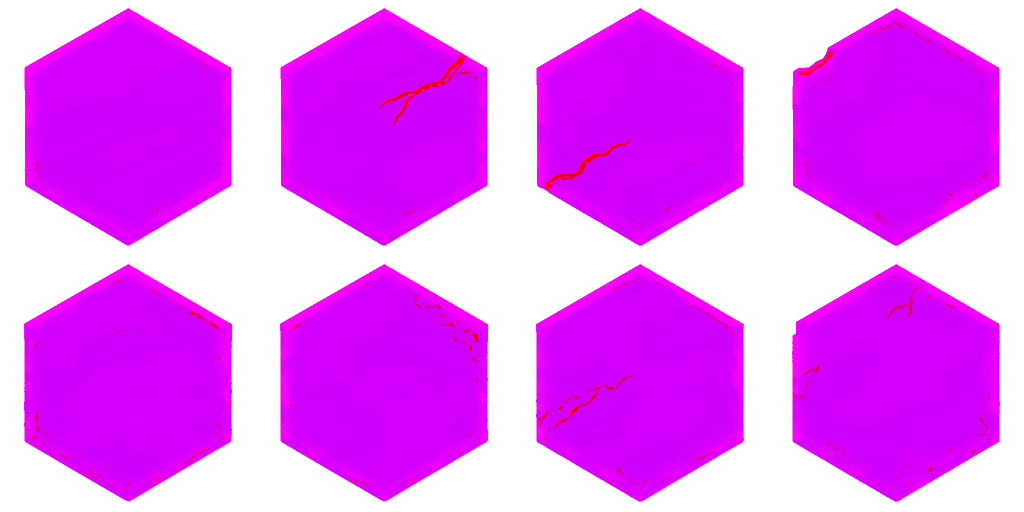
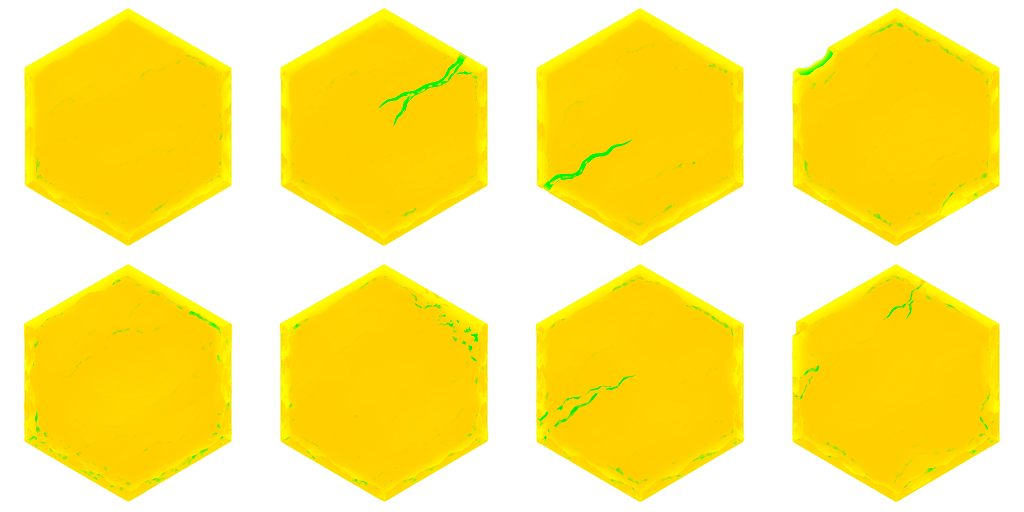
Arena hex floor: painted PBR tiles and the joint plane
Claude-Session: https://claude.ai/code/session_01RV2LkTXFCZhmAifUhFqJWb

diff --git a/game/arenahex.js b/game/arenahex.js
@@ -1,0 +1,113 @@
+/* Hexmancers - the battle board's painted hex floor (docs/superpowers/specs/2026-11-15-arena-hex-floor-design.md; the
+   plan docs/superpowers/plans/2026-11-15-arena-hex-floor.md). Every hex is a carved stone tile painted to the hex, set
+   flush in a dark joint: one of the area's eight painted tiles (tools/build-arena-hex.py: art/environment/arena/hex/),
+   turned by sixths and now and then mirrored, its tone, edge wear, cracks and moss varied by its own key, with a slow
+   tone drift across the whole board. The material is PBR (MeshStandardMaterial: the painted roughness and metalness, a
+   normal and an ambient-occlusion map from the painted height) and tuned live from the debug menu's Arena floor rows.
+   Until an area's art has come in (or if it failed) the board stands in with the same tiles built from their shape:
+   the area's code-painted slab as faint grain, a bevel from the distance to the hex's edge. The square board of the
+   Movement lab keeps the old board (arena.js). */
+const HEX_R=.92;   // a tile's circumradius (the grid's is 1): the joints between are about .14 wide
+const HEX_MATS=new Set();   // the live hex materials, for the debug menu's rows
+// a tile's stable dice: its painted variant, turn (sixths), mirror, tone and the strengths of its masks
+function hexKey(t){ return Math.imul(t.q*73856093^t.r*19349663,2654435761)>>>0; }
+function hexPicks(){ const P=new Map(), at=new Map(TILES.map(t=>[t.q+','+t.r,t])), nb=[[1,0],[-1,0],[0,1],[0,-1],[1,-1],[-1,1]];
+  for(const t of TILES){ let h=hexKey(t), v=h%8, turn=(h>>>3)%6;
+    for(let k=0;k<12;k++){ const clash=nb.some(([dq,dr])=>{ const o=at.get((t.q+dq)+','+(t.r+dr)), p=o&&P.get(o); return p&&p.v===v&&p.turn===turn; }); if(!clash) break;
+      h=Math.imul(h^0x9e3779b9,2246822507)>>>0; v=h%8; turn=(h>>>3)%6; }
+    const f=s=>((h>>>s)&255)/255;
+    P.set(t,{v, turn, mir:((h>>>6)&3)===0?1:0, tone:(f(8)-.5)*.14, wear:.6+f(16)*.6, crack:.8+f(24)*.4, moss:f(11)}); }
+  return P; }
+// a point (ox, oz) off a tile's centre, in world units, to its place in the painting: the art's hexes are pointy-top
+// (a corner straight up the image), the board's have a corner along world x; turned by sixths, mirrored across
+function hexUV(ox,oz,p,cols,rows,cellPx,hexPx){ const r=Math.hypot(ox,oz)/HEX_R*hexPx, a=Math.atan2(oz,ox)-Math.PI/2+p.turn*Math.PI/3;
+  let x=Math.cos(a)*r, y=Math.sin(a)*r; if(p.mir) x=-x; const cx=(p.v%cols+.5)*cellPx+x, cy=(((p.v/cols)|0)%rows+.5)*cellPx+y;
+  return [cx/(cols*cellPx), 1-cy/(rows*cellPx)]; }
+// the tiles: one merged mesh; each tile a hex top and a bevel skirt down into its joint; t._v0..t._v1 its vertices (the
+// colour arena.js arenaTiles writes from the tile's state)
+function hexGeo(P,cols,rows,cellPx,hexPx){ const pos=[], nor=[], uv=[], col=[], va=[];
+  const put=(x,y,z,nx,ny,nz,u,v,p)=>{ pos.push(x,y,z); nor.push(nx,ny,nz); uv.push(u,v); col.push(1,1,1); va.push(p.tone,p.wear,p.crack,p.moss); };
+  for(const t of TILES){ const p=P.get(t), cx=t.wz, cz=-t.wx; t._v0=pos.length/3;
+    const C=[...Array(6)].map((_,i)=>{ const a=i*Math.PI/3; return [Math.cos(a),Math.sin(a)]; });
+    const U=(ox,oz,k)=>hexUV(ox*k,oz*k,p,cols,rows,cellPx,hexPx);
+    for(let i=0;i<6;i++){ const a=C[i], b=C[(i+1)%6];
+      put(cx,0,cz,0,1,0,...U(0,0,1),p); put(cx+b[0]*HEX_R,0,cz+b[1]*HEX_R,0,1,0,...U(b[0]*HEX_R,b[1]*HEX_R,1),p); put(cx+a[0]*HEX_R,0,cz+a[1]*HEX_R,0,1,0,...U(a[0]*HEX_R,a[1]*HEX_R,1),p); }
+    // the skirt: the rim's own colour (just inside the painted edge), sloping out and down into the joint
+    for(let i=0;i<6;i++){ const a=C[i], b=C[(i+1)%6], mx=(a[0]+b[0])/2, mz=(a[1]+b[1])/2, l=Math.hypot(mx,mz), nx=mx/l*.7, nz=mz/l*.7, R2=HEX_R+.035, y2=-.07;
+      const ua=U(a[0]*HEX_R,a[1]*HEX_R,.97), ub=U(b[0]*HEX_R,b[1]*HEX_R,.97);
+      put(cx+a[0]*HEX_R,0,cz+a[1]*HEX_R,nx,.7,nz,...ua,p); put(cx+b[0]*HEX_R,0,cz+b[1]*HEX_R,nx,.7,nz,...ub,p); put(cx+b[0]*R2,y2,cz+b[1]*R2,nx,.7,nz,...ub,p);
+      put(cx+a[0]*HEX_R,0,cz+a[1]*HEX_R,nx,.7,nz,...ua,p); put(cx+b[0]*R2,y2,cz+b[1]*R2,nx,.7,nz,...ub,p); put(cx+a[0]*R2,y2,cz+a[1]*R2,nx,.7,nz,...ua,p); }
+    t._v1=pos.length/3; }
+  const g=new THREE.BufferGeometry(); g.setAttribute('position',new THREE.Float32BufferAttribute(pos,3)); g.setAttribute('normal',new THREE.Float32BufferAttribute(nor,3));
+  g.setAttribute('uv',new THREE.Float32BufferAttribute(uv,2)); g.setAttribute('uv2',new THREE.Float32BufferAttribute(uv,2));
+  g.setAttribute('color',new THREE.Float32BufferAttribute(col,3)); g.setAttribute('aHexVar',new THREE.Float32BufferAttribute(va,4)); return g; }
+// a texture from an Image: colour, or data (no colour conversion, no premultiplying: the masks' alpha is data)
+function hexTex(img,rep){ const t=arTex(new THREE.Texture(img)); t.wrapS=t.wrapT=rep?THREE.RepeatWrapping:THREE.ClampToEdgeWrapping; t.magFilter=THREE.LinearFilter; t.minFilter=THREE.LinearMipmapLinearFilter;
+  t.anisotropy=4; t.premultiplyAlpha=false; t.needsUpdate=true; return t; }
+// the mean colour of an image (the joints' moss colour the tiles' moss mask mixes toward)
+function hexMean(img){ const c=document.createElement('canvas'); c.width=c.height=8; const x=c.getContext('2d'); x.drawImage(img,0,0,8,8); const d=x.getImageData(0,0,8,8).data; let r=0,g=0,b=0;
+  for(let i=0;i<64;i++){ r+=d[i*4]; g+=d[i*4+1]; b+=d[i*4+2]; } return new THREE.Color(r/64/255,g/64/255,b/64/255); }
+// the tiles' material: PBR, its painted maps, the per-tile variation and the board-wide drift in its shader
+function hexMat(H){ const T=hexTex(H.tiles), M=hexTex(H.m), m=new THREE.MeshStandardMaterial({map:T, normalMap:hexTex(H.n), aoMap:M, roughnessMap:M, metalnessMap:M, roughness:1, metalness:1, alphaTest:.5, vertexColors:true});
+  m.normalScale.set(XLIT.hexNrm,XLIT.hexNrm); m.aoMapIntensity=XLIT.hexAO;
+  const U={ uHexV:{value:hexTex(H.v)}, uHexNoise:{value:hexTex(H.noise,true)}, uHexK:{value:new THREE.Vector4(XLIT.hexRough,XLIT.hexRoughOff,XLIT.hexMetal,XLIT.hexWear)}, uHexMoss:{value:hexMean(H.joint).multiplyScalar(1.6)} };
+  m.userData.hexU=U; m.userData.xmold=1;
+  m.onBeforeCompile=sh=>{ Object.assign(sh.uniforms,U);
+    sh.vertexShader='attribute vec4 aHexVar; varying vec4 vHexVar; varying vec2 vHexW;\n'+sh.vertexShader.replace('#include <begin_vertex>','#include <begin_vertex>\n vHexVar=aHexVar; vHexW=(modelMatrix*vec4(position,1.)).xz;');
+    sh.fragmentShader='uniform sampler2D uHexV; uniform sampler2D uHexNoise; uniform vec4 uHexK; uniform vec3 uHexMoss; varying vec4 vHexVar; varying vec2 vHexW;\n'+sh.fragmentShader
+      .replace('#include <map_fragment>',`#include <map_fragment>
+  vec4 hv=texture2D(uHexV,vUv); float hn=texture2D(uHexNoise,vHexW/9.).r-.5;
+  diffuseColor.rgb*=(1.+vHexVar.x)*(1.+(hv.b-.5)*.1)*(1.+hn*.08);                       // the tile's tone, its colour patches, the board's drift
+  diffuseColor.rgb*=(1.+.25*vHexVar.y*uHexK.w*hv.r)*(1.-.3*vHexVar.z*hv.g);               // worn edges lighter, cracks and chips darker
+  diffuseColor.rgb=mix(diffuseColor.rgb,uHexMoss,.4*vHexVar.w*hv.a);`)                     // moss and staining
+      .replace('#include <roughnessmap_fragment>','#include <roughnessmap_fragment>\n  roughnessFactor=clamp(roughnessFactor*uHexK.x+uHexK.y+.08*hv.g,.04,1.);')
+      .replace('#include <metalnessmap_fragment>','#include <metalnessmap_fragment>\n  metalnessFactor*=uHexK.z;'); };
+  m.customProgramCacheKey=()=>'hexfloor';
+  HEX_MATS.add(m); return m; }
+// the stand-in tile: the area's slab, faint, in a hex with a bevel from its distance to the edge (xLitTag makes the relief)
+function hexStandIn(Ar){ const N=256, c=document.createElement('canvas'); c.width=c.height=N; const x=c.getContext('2d');
+  const src=xSlabFloor(Ar.stone||AREAS[0].stone,(Ar.index||0)*31+5,0); x.drawImage(src,0,0,N,N);
+  const im=x.getImageData(0,0,N,N), d=im.data; let r=0,g=0,b=0; for(let i=0;i<N*N;i++){ r+=d[i*4]; g+=d[i*4+1]; b+=d[i*4+2]; } r/=N*N; g/=N*N; b/=N*N;
+  const H=new Float32Array(N*N), hp=ARENA_HEX.hexR, ri=hp*Math.sqrt(3)/2;
+  for(let j=0;j<N;j++) for(let i=0;i<N;i++){ const o=j*N+i, dx=i+.5-N/2, dy=j+.5-N/2; let dd=0; for(let k=0;k<6;k++){ const a=k*Math.PI/3; dd=Math.max(dd,dx*Math.cos(a)+dy*Math.sin(a)); }
+    const e=Math.max(0,1-dd/ri), bev=Math.min(1,e/.12);
+    d[o*4]=r+(d[o*4]-r)*.3; d[o*4+1]=g+(d[o*4+1]-g)*.3; d[o*4+2]=b+(d[o*4+2]-b)*.3;
+    const lit=1+(1-bev)*.12; d[o*4]*=lit; d[o*4+1]*=lit; d[o*4+2]*=lit;
+    H[o]=bev*4-Math.max(0,e-.5)*.6; }
+  x.putImageData(im,0,0); c.h=H; c.hk=.6; c.pbr='slab'; return c; }
+// the overlay layers every board has (arena.js): the glow added on (state highlights) and the outline guide
+function hexOverlays(rad){ const gpos=[], gcol=[]; TILES.forEach(t=>{ t._g0=gpos.length/3; const cx=t.wz, cz=-t.wx;
+    const C=tileCornerOffs(rad).map(([dx,dz])=>[cx+dz,cz-dx]); for(let i=0;i<C.length;i++){ const a=C[i], b=C[(i+1)%C.length]; gpos.push(cx,.012,cz, b[0],.012,b[1], a[0],.012,a[1]); gcol.push(0,0,0,0,0,0,0,0,0); } });
+  const gg=new THREE.BufferGeometry(); gg.setAttribute('position',new THREE.Float32BufferAttribute(gpos,3)); gg.setAttribute('color',new THREE.Float32BufferAttribute(gcol,3));
+  const glow=new THREE.Mesh(gg,arMat(new THREE.MeshBasicMaterial({vertexColors:true,transparent:true,blending:THREE.AdditiveBlending,depthWrite:false,fog:false}))); glow.renderOrder=1;
+  const lp=[], lc=[]; const side=t=>t.side==='p'?[.5,.83,1]:t.side==='e'?[.59,.65,.7]:[.22,1,.54];
+  for(const t of TILES){ const cx=t.wz, cz=-t.wx, c=side(t), f=t.side==='p'?.5:t.side==='e'?.32:.5, fi=t.side==='p'?.14:.08;
+    const C=tileCornerOffs(rad).map(([dx,dz])=>[cx+dz,cz-dx]); for(let i=0;i<C.length;i++){ const [ax,az]=C[i], [bx,bz]=C[(i+1)%C.length];
+      lp.push(ax,.02,az,bx,.02,bz); lc.push(...c.map(v=>v*f),...c.map(v=>v*f));
+      if(t.side!=='n'&&!SQUARE){ lp.push(cx,.02,cz,ax,.02,az); lc.push(...c.map(v=>v*fi),...c.map(v=>v*fi)); } } }
+  const lg=new THREE.BufferGeometry(); lg.setAttribute('position',new THREE.Float32BufferAttribute(lp,3)); lg.setAttribute('color',new THREE.Float32BufferAttribute(lc,3));
+  const lm=arMat(new THREE.LineBasicMaterial({vertexColors:true,transparent:true,blending:THREE.AdditiveBlending,depthWrite:false,fog:false})), lines=new THREE.LineSegments(lg,lm); lines.renderOrder=2;
+  lm.userData.hexLines=1; return {glow,lines}; }
+// the joints: one slab under the board, its top the area's joint fill (tiled in world space), its sides down to the floor
+function hexJoint(Ar,H){ let x0=1e9,x1=-1e9,z0=1e9,z1=-1e9; for(const t of TILES){ x0=Math.min(x0,t.wz); x1=Math.max(x1,t.wz); z0=Math.min(z0,-t.wx); z1=Math.max(z1,-t.wx); }
+  const W=x1-x0+2.1, D=z1-z0+2.1, Hh=SLAB-.05, g=new THREE.BoxGeometry(W,Hh,D);
+  const p=g.attributes.position, uv=g.attributes.uv; for(let i=0;i<p.count;i++){ const X=p.getX(i)+(x0+x1)/2, Y=p.getY(i), Z=p.getZ(i)+(z0+z1)/2; const ny=g.attributes.normal.getY(i);
+    if(Math.abs(ny)>.5) uv.setXY(i,X/3,Z/3); else uv.setXY(i,(X+Z)/3,Y/3); }
+  g.setAttribute('uv2',uv.clone());
+  let m; if(H){ const J=hexTex(H.joint,true), JM=hexTex(H.jointM,true); m=new THREE.MeshStandardMaterial({map:J, normalMap:hexTex(H.jointN,true), aoMap:JM, roughnessMap:JM, metalnessMap:JM, roughness:1, metalness:1}); }
+  else { const c=xRockFloor(Ar.stone||AREAS[0].stone,(Ar.index||0)*17+3), t=arTex(xTex(c,true)); m=xLitTag(xPhong({map:t,color:0x8c8c8c}),1,c); }
+  m.userData.hexJoint=1; m.userData.xmold=1; const mesh=new THREE.Mesh(g,arMat(m)); mesh.position.set((x0+x1)/2,-.05-Hh/2,(z0+z1)/2); mesh.userData.caveFloor=1; return mesh; }
+/* The board (arena.js arenaBoard, for a hex board): {mesh, joint, glow, lines, art} — mesh keeps arenaBoard's contract
+   (t._v0..t._v1 and a colour attribute per tile). */
+function arHexFloor(A,Ar,R){ HEX_MATS.clear(); const H=typeof envArtHex==='function'?envArtHex(Ar.id):null, P=hexPicks();
+  let mesh;
+  if(H){ const g=hexGeo(P,ARENA_HEX.cols,ARENA_HEX.rows,ARENA_HEX.cell,ARENA_HEX.hexR); mesh=new THREE.Mesh(g,arMat(xLitTag(hexMat(H),1))); }
+  else { const cv=hexStandIn(Ar), tex=arTex(xTex(cv,false)); tex.magFilter=THREE.LinearFilter; tex.minFilter=THREE.LinearMipmapLinearFilter;
+    const P1=new Map([...P].map(([t,p])=>[t,Object.assign({},p,{v:0})])), g=hexGeo(P1,1,1,256,ARENA_HEX.hexR); mesh=new THREE.Mesh(g,arMat(xLitTag(xPhong({map:tex,vertexColors:true,pbr:'slab'}),1,cv))); }
+  mesh.renderOrder=0; const joint=hexJoint(Ar,H), {glow,lines}=hexOverlays(HEX_R);
+  lines.material.opacity=XLIT.hexLines;
+  return {mesh, joint, glow, lines, art:!!H}; }
+// the debug menu's Arena floor rows, live
+function hexTune(){ for(const m of HEX_MATS){ const U=m.userData.hexU; if(!U) continue; U.uHexK.value.set(XLIT.hexRough,XLIT.hexRoughOff,XLIT.hexMetal,XLIT.hexWear); m.normalScale.set(XLIT.hexNrm,XLIT.hexNrm); m.aoMapIntensity=XLIT.hexAO; }
+  if(typeof AR!=='undefined'&&AR&&AR.board){ if(AR.board.lines) AR.board.lines.material.opacity=XLIT.hexLines; if(AR.board.sideGlow) AR.board.sideGlow.material.opacity=XLIT.hexGlow;
+    if(AR.board.growth) for(const k in AR.board.growth) if(AR.board.growth[k]) AR.board.growth[k].visible=XLIT.hexGrowth; } }

diff --git a/game/look.js b/game/look.js
@@ -20,7 +20,7 @@ const XB={ ball:xSetF('hexmancers-xball',XB_DEF.ball), strip:xSetF('hexmancers-x
      darken toward their feet.
    - Screen-space AO: a pass over the depth of the whole frame shades every crease (xSSAO). */
 const xSetB=(k,d)=>{ try{ const v=localStorage.getItem(k); return v==null?d:v==='1'; }catch(e){ return d; } };
-const XLIT_DEF={ texSharp:1, mold:true, moldAmt:1, moldSpread:1, moldScale:1, amb:4, sun:3.5, lamp:2.05, lampRad:0.4, lampY:3.7, torch:0.55, torchRad:0.75, flick:2.15, myGlow:1.2, fogNear:51, fogFar:119, texel:true, steps:8, nmap:true, nstrF:1.05, nstrW:0.23, ao:true, aoStr:0.9, aoRad:0.6, ssao:true, ssaoStr:1.25, ssaoRad:0.55, fps:false, autoQ:true, camPitch:58, camFov:71, arWalls:true, camZoom:1, camX:0, camY:-4.5, camZ:2.9, camRX:24, camRY:0, camRZ:0, dof:true, dofFocus:11, dofRange:13.4, dofFade:16.3, dofNear:0.35, dofFar:0.5, dofBlur:12.5, pbr:true, pbrEnv:1.25, pbrR_gold:0.68, pbrM_gold:1, pbrR_steel:1, pbrM_steel:1, pbrR_gloss:0.14, pbrM_gloss:0, pbrR_ice:0.97, pbrM_ice:0, pbrR_slab:0.7, pbrM_slab:0, pbrRMap:1,
+const XLIT_DEF={ hexRough:1, hexRoughOff:0, hexMetal:1, hexNrm:1, hexAO:1, hexWear:1, hexGlow:1, hexLines:.5, hexGrowth:true, texSharp:1, mold:true, moldAmt:1, moldSpread:1, moldScale:1, amb:4, sun:3.5, lamp:2.05, lampRad:0.4, lampY:3.7, torch:0.55, torchRad:0.75, flick:2.15, myGlow:1.2, fogNear:51, fogFar:119, texel:true, steps:8, nmap:true, nstrF:1.05, nstrW:0.23, ao:true, aoStr:0.9, aoRad:0.6, ssao:true, ssaoStr:1.25, ssaoRad:0.55, fps:false, autoQ:true, camPitch:58, camFov:71, arWalls:true, camZoom:1, camX:0, camY:-4.5, camZ:2.9, camRX:24, camRY:0, camRZ:0, dof:true, dofFocus:11, dofRange:13.4, dofFade:16.3, dofNear:0.35, dofFar:0.5, dofBlur:12.5, pbr:true, pbrEnv:1.25, pbrR_gold:0.68, pbrM_gold:1, pbrR_steel:1, pbrM_steel:1, pbrR_gloss:0.14, pbrM_gloss:0, pbrR_ice:0.97, pbrM_ice:0, pbrR_slab:0.7, pbrM_slab:0, pbrRMap:1,
   dPitch:48, dDist:9.4, dView:12, dViewP:7, dStepOn:true, dStepLow:.17, dShOn:false, dShW:1.25, dShUp:1.3, dShDown:2.6, dShBack:1.1, dShEdge:.18, dShInner:true, dShDoor:true, dShDoorH:3.6, dShade:true, dShadeA:.55, dShadeTint:.35, dFov:46, dAhead:1, dAim:0, dTurn:0, dMoveX:0, dMoveY:0, dMoveZ:0, dRotX:0, dRotY:0, dRotZ:0, dFog:true, dFogStart:6, dFogLen:14, dMemLit:.7, dMemDark:.35, dLightMem:1, dCut:false, dCutH:.3, dCutFollow:true, dCutReach:9, dCutStart:.5, dDoorMin:.75, dDoorGlow:.3, dofShow:false, vig:0.98, vigR:0.79, vigSoft:0.38, mvSpeed:1.2, mvSnap:1, mvSnapR:.7, mvSnapSpd:4.02, mvRest:0.6, mvDrag:2.5, mvAccel:0, mvShow:false, mvShowGame:false, mvStick:true, mvStickShow:true, mvStickR:48, mvDead:.15, mvStickMin:.15, mvStickFull:.54, mvCurve:.56, mvTapMs:278, mvTapPx:17, mvStickSpeed:6, mvEven:1, mvSnapTime:.12, mvSnapAhead:true, mvStride:.5, mvFaceWalk:true, mvMomentum:true, mvMAccel:.15, mvMBrake:.42, mvMSkid:.25, mvGrip:.93, mvFlick:true, mvFlickV0:450, mvFlickV1:1400, mvFlickMin:1, mvFlickMax:3, mvFlickTime:.5, mvFlickWin:90, mpSpell:10, mpDefend:50, mpBackdate:250, mpSend:16, mpSmooth:33 };   // mp...: a duel's timings (netduel.js NET_DEFAULTS); d...: the dungeon camera, haze, what you remember and walls; mv...: how you walk in battle (battle.js freeTick)
 // the debug menu's pause: the game holds still (no moves, no clocks) but keeps being drawn; never saved
 const DBG={pause:false};
@@ -455,7 +455,7 @@ function xBlockWall(S,seed,rubble){ const N=64, R=caveRng(seed), f=xFbm(N,R,4);
   const c=xPaint(N,(i,j)=>{ const b=out[j*N+i]; if(Hm[j*N+i]>-1.5) Hm[j*N+i]+=f(i,j)*1.4; let t=b<0?.05:b+(f(i,j)-.5)*.25; if(j<2) t+=.25; return xTone(S,Math.max(0,Math.min(1,t))); });
   c.h=Hm; c.hk=.6; return c; }
 const XDBG=[   // [element id, object, key, saved as, decimals (null: a checkbox), what a change does]
-  ['dbgTexel',()=>XLIT,'texel','hexmancers-xl-texel',null,'lit'], ['dbgTexSharp',()=>XLIT,'texSharp','hexmancers-xl-texSharp',2,'sharp'], ['dbgMold',()=>XLIT,'mold','hexmancers-xl-mold',null,'pbr'], ['dbgMoldAmt',()=>XLIT,'moldAmt','hexmancers-xl-moldAmt',2,'mold'], ['dbgMoldSpread',()=>XLIT,'moldSpread','hexmancers-xl-moldSpread',2,'mold'], ['dbgMoldScale',()=>XLIT,'moldScale','hexmancers-xl-moldScale',2,'mold'], ['dbgSteps',()=>XLIT,'steps','hexmancers-xl-steps',0,'lit'],
+  ['dbgTexel',()=>XLIT,'texel','hexmancers-xl-texel',null,'lit'], ['dbgTexSharp',()=>XLIT,'texSharp','hexmancers-xl-texSharp',2,'sharp'], ['dbgMold',()=>XLIT,'mold','hexmancers-xl-mold',null,'pbr'], ...[['Rough','hexRough'],['RoughOff','hexRoughOff'],['Metal','hexMetal'],['Nrm','hexNrm'],['AO','hexAO'],['Wear','hexWear'],['Glow','hexGlow'],['Lines','hexLines']].map(([n,k])=>['dbgHex'+n,()=>XLIT,k,'hexmancers-xl-'+k,2,'hex']), ['dbgHexGrowth',()=>XLIT,'hexGrowth','hexmancers-xl-hexGrowth',null,'hex'], ['dbgMoldAmt',()=>XLIT,'moldAmt','hexmancers-xl-moldAmt',2,'mold'], ['dbgMoldSpread',()=>XLIT,'moldSpread','hexmancers-xl-moldSpread',2,'mold'], ['dbgMoldScale',()=>XLIT,'moldScale','hexmancers-xl-moldScale',2,'mold'], ['dbgSteps',()=>XLIT,'steps','hexmancers-xl-steps',0,'lit'],
   ['dbgNmap',()=>XLIT,'nmap','hexmancers-xl-nmap',null,'lit'], ['dbgNStrF',()=>XLIT,'nstrF','hexmancers-xl-nstrF',2,'lit'], ['dbgNStrW',()=>XLIT,'nstrW','hexmancers-xl-nstrW',2,'lit'],
   ['dbgAO',()=>XLIT,'ao','hexmancers-xl-ao',null,'lit'], ['dbgAOStr',()=>XLIT,'aoStr','hexmancers-xl-aoStr',2,'lit'], ['dbgAORad',()=>XLIT,'aoRad','hexmancers-xl-aoRad',2,'bake'],
   ['dbgSSAO',()=>XLIT,'ssao','hexmancers-xl-ssao',null,''], ['dbgSSAOStr',()=>XLIT,'ssaoStr','hexmancers-xl-ssaoStr',2,''], ['dbgSSAORad',()=>XLIT,'ssaoRad','hexmancers-xl-ssaoRad',2,''],
@@ -472,6 +472,7 @@ function xDbgApply(what){ if(typeof mlabCurve==='function') mlabCurve();   // (t
   else if(what==='pbr') lookRebuild();
   else if(what==='sharp') XLITU.uXSharp.value=XLIT.texSharp;
   else if(what==='mold'){ const K=XLITU.uXMoldK.value; K.x=XLIT.moldAmt; K.y=XLIT.moldSpread; K.z=XLIT.moldScale; }   // (the mold layer's amount, damp spread and scale, live: mold.js)   // (the painted textures' filtering: look.js xAtlasShader, live)
+  else if(what==='hex'){ if(typeof hexTune==='function') hexTune(); }   // (the arena's hex floor, live: arenahex.js)
   else if(what==='pbrEnv') xPBRTune();
   else if(what==='cam'){ if(typeof resizeView==='function'&&typeof B!=='undefined'&&B) resizeView(); }
   else if(what==='xpaint'||what==='xwalls'||what==='xshade'){ if(typeof xDbgDungeon==='function') xDbgDungeon(what); }
@@ -590,7 +591,7 @@ function xDbgCopy(taId,btnId){ taId=typeof taId==='string'?taId:'dbgCopyText'; b
   if(navigator.clipboard&&navigator.clipboard.writeText) navigator.clipboard.writeText(txt).then(()=>done(true),()=>done(ok)); else done(ok); }
 /* The debug menu's panes: its sections are sorted under a row of tabs at the top, so only one group of
    settings shows at a time. The pane last opened is remembered in this browser. */
-const XDBG_PANES=[['Camera',['Dungeon camera','Battle camera']],['Dungeon',['Dungeon view','Walls']],['Battle',['Battle movement']],['Lights',['Lighting','Lights']],['Surfaces',['Textures','Mold','PBR','Normal maps','Ambient occlusion']],['Post',['Post effects']],['General',['Card art','Multiplayer','Info']]];
+const XDBG_PANES=[['Camera',['Dungeon camera','Battle camera']],['Dungeon',['Dungeon view','Walls']],['Battle',['Battle movement']],['Lights',['Lighting','Lights']],['Surfaces',['Textures','Mold','Arena floor','PBR','Normal maps','Ambient occlusion']],['Post',['Post effects']],['General',['Card art','Multiplayer','Info']]];
 function xDbgPanes(){ const body=document.getElementById('dbgBody'); if(!body||body.querySelector('.dbgTabs')) return;
   const panes={}, tabs=document.createElement('div'); tabs.className='dbgTabs';
   for(const [name] of XDBG_PANES){ const d=document.createElement('div'); d.className='dbgPane'; d.dataset.pane=name; panes[name]=d; }

diff --git a/tools/playtest/art-check.js b/tools/playtest/art-check.js
@@ -240,11 +240,65 @@ const CHECKS = {
     }
     return 'no floor at depths 1-4 has a log with bracket mushrooms';
   },
+
+  // ---- the arena's hex floor (docs/superpowers/plans/2026-11-15-arena-hex-floor.md) ----
+  // Task 2: the painted tiles' PBR material, once the art is in
+  async hexFloorMaterial(pg) {
+    await pg.evaluate(BATTLE, [1, true]);
+    return pg.evaluate(() => {
+      const b = AR && AR.board; if (!b) return 'no board';
+      if (b.art !== true) return 'the board did not take the painted art';
+      const m = b.mesh.material;
+      if (!m.isMeshStandardMaterial) return 'not a MeshStandardMaterial';
+      if (!(m.map && m.normalMap && m.roughnessMap && m.metalnessMap && m.aoMap)) return 'a map is missing';
+      if (m.alphaTest !== .5) return 'alphaTest ' + m.alphaTest;
+      if (!b.joint) return 'no joint';
+      return null;
+    });
+  },
+  // Task 2: the art missing: the shape-built stand-in, no errors
+  async hexFallback(pg) {
+    await pg.evaluate(BATTLE, [1, false]);
+    return pg.evaluate(() => { const b = AR && AR.board; if (!b || !b.mesh) return 'no board'; if (b.art !== false) return 'art claimed while a file is missing'; return null; });
+  },
+  // Task 2: the Movement lab's square board stays the old board (54 vertices a tile, as arenaBoard always made)
+  async hexSquareBoard(pg) {
+    await pg.evaluate(() => { BOARD_TEST = { rows: 5, cols: 4, square: true }; });
+    await pg.evaluate(BATTLE, [1, false]);
+    return pg.evaluate(() => { const b = AR && AR.board; BOARD_TEST = null; if (!b) return 'no board';
+      if (b.art !== undefined) return 'the square board took the hex floor';
+      const n = b.mesh.geometry.attributes.position.count; if (n !== 40 * 54) return 'square board vertices ' + n + ', want ' + 40 * 54;
+      return null; });
+  },
+  // Task 2: a mirrored, turned tile's painting lands in its own cell, its centre on the cell's centre, its coverage solid
+  async hexMaskAligned(pg) {
+    await pg.evaluate(BATTLE, [1, true]);
+    return pg.evaluate(() => {
+      const P = hexPicks(), t = TILES.find(t => { const p = P.get(t); return p.mir && p.turn; }); if (!t) return 'no mirrored, turned tile';
+      const p = P.get(t), C = ARENA_HEX.cols, Rw = ARENA_HEX.rows, px = ARENA_HEX.cell, hr = ARENA_HEX.hexR;
+      const cx = (p.v % C + .5) / C, cy = 1 - (((p.v / C) | 0) + .5) / Rw, [u0, v0] = hexUV(0, 0, p, C, Rw, px, hr);
+      if (Math.abs(u0 - cx) > 1e-6 || Math.abs(v0 - cy) > 1e-6) return 'the centre is off its cell';
+      for (let i = 0; i < 6; i++) { const a = i * Math.PI / 3, [u, v] = hexUV(Math.cos(a) * HEX_R, Math.sin(a) * HEX_R, p, C, Rw, px, hr);
+        if (Math.abs(u - cx) > .5 / C || Math.abs(v - cy) > .5 / Rw) return 'corner ' + i + ' leaves its cell'; }
+      const img = envArtHex('hollows').tiles, c = document.createElement('canvas'); c.width = img.width; c.height = img.height; const x = c.getContext('2d'); x.drawImage(img, 0, 0);
+      if (x.getImageData(Math.floor(u0 * img.width), Math.floor((1 - v0) * img.height), 1, 1).data[3] < 250) return 'no coverage at the tile centre';
+      return null;
+    });
+  },
+};
+// in the page: start a battle at a depth (wait: for the area's hex floor art, up to 15 s)
+const BATTLE = async ([depth, wait]) => {
+  try { localStorage.setItem('hexmancers-cine', '0'); } catch (e) {}
+  envArtWantDepth(depth); const id = areaOf(depth).id, t0 = performance.now();
+  while (wait && performance.now() - t0 < 15000 && !envArtHex(id)) await new Promise(r => setTimeout(r, 100));
+  save = newSave(STARTERS[0]); save.char = lockChar(newChar('human', 0)); save.deepest = depth; show('scrBattle');
+  startBattle(activeDeck().list, depth, { onEnd: () => {} }, {}); await new Promise(r => setTimeout(r, 500)); return true;
 };
 // checks that need the page set up before it loads
 const ROUTES = { mushFallback: pg => pg.route('**/atlas/effects.webp', r => r.fulfill({ status: 404, body: '' })),
   foliageFallback: pg => pg.route('**/atlas/effects.webp', r => r.fulfill({ status: 404, body: '' })),
-  moldMissingSheet: pg => pg.route('**/atlas/mold.webp', r => r.fulfill({ status: 404, body: '' })) };
+  moldMissingSheet: pg => pg.route('**/atlas/mold.webp', r => r.fulfill({ status: 404, body: '' })),
+  hexFallback: pg => pg.route('**/arena/hex/hollows-tiles.webp', r => r.fulfill({ status: 404, body: '' })) };
 
 (async () => {
   const names = process.argv.slice(2).length ? process.argv.slice(2) : Object.keys(CHECKS);

diff --git a/game/envart.js b/game/envart.js
@@ -43,9 +43,24 @@ function arenaLoad(id,slot){ if(ARENA_DUNGEON[id]) return; const f=arenaFile(id,
   const im=new Image(); im.decoding='async'; im.onload=()=>{ AST.set(k,'ok'); AIMG.set(k,im); }; im.onerror=()=>AST.set(k,'fail'); im.src='art/environment/arena/'+k+'.webp'; }
 // an arena surface's painting (an Image), or null while it loads (the code-painted one stands in) or if there is none
 function envArtArena(id,slot){ if(ARENA_DUNGEON[id]) return arenaDungeon(id,slot); const f=arenaFile(id,slot); if(!f) return null; const k=id+'--'+f; if(!AST.has(k)) arenaLoad(id,slot); return AIMG.get(k)||null; }
+/* The battle board's painted hex floor (tools/build-arena-hex.py: art/environment/arena/hex/, ARENA_HEX in arenahexmap.js):
+   ten files an area and one shared noise, loaded with the area's other art. All of them or nothing: until every one has
+   come in, or for good once one fails, the board stands in with its shape-built floor (arenahex.js). */
+const HEX_PARTS={ tiles:'tiles', n:'tiles-n', m:'tiles-m', v:'tiles-v', joint:'joint', jointN:'joint-n', jointM:'joint-m', growth:'growth', growthE:'growth-e', growthM:'growth-m' };
+const HST=new Map(), HIMG=new Map(), HSET=new Map();
+function hexLoad(file){ if(HST.has(file)) return; HST.set(file,'loading'); const im=new Image(); im.decoding='async';
+  im.onload=()=>{ HST.set(file,'ok'); HIMG.set(file,im); }; im.onerror=()=>HST.set(file,'fail'); im.src='art/environment/arena/hex/'+file+'.webp'; }
+const hexFiles=id=>Object.values(HEX_PARTS).map(k=>id+'-'+k).concat('broad-noise');
+function hexWant(id){ if(typeof ARENA_HEX==='undefined'||!ARENA_HEX.areas.includes(id)) return; for(const f of hexFiles(id)) hexLoad(f); }
+// an area's hex floor art {tiles,n,m,v,joint,jointN,jointM,growth,growthE,growthM,noise} (Images, the same objects every
+// time), or null while any is loading or once one has failed
+function envArtHex(id){ if(HSET.has(id)) return HSET.get(id); if(typeof ARENA_HEX==='undefined'||!ARENA_HEX.areas.includes(id)) return null; hexWant(id);
+  const F=hexFiles(id); if(!F.every(f=>HST.get(f)==='ok')) return null;
+  const o={}; for(const k in HEX_PARTS) o[k]=HIMG.get(id+'-'+HEX_PARTS[k]); o.noise=HIMG.get('broad-noise'); HSET.set(id,o); return o; }
+const envArtHexFailed=id=>hexFiles(id).some(f=>HST.get(f)==='fail');
 // start loading what an area needs (its two sheets and the effects, and its arena)
 function envArtWant(id){ if(!id) return; load('area-'+id); load('area-'+id+'-n'); load('effects'); load('effects-e'); load('mold');
-  for(const slot of ['board','floor','wall','rock','chasm','mold','lava']) arenaLoad(id,slot); }
+  for(const slot of ['board','floor','wall','rock','chasm','mold','lava']) arenaLoad(id,slot); hexWant(id); }
 function envArtWantDepth(d){ if(typeof areaOf==='function') envArtWant(areaOf(Math.max(1,d|0)).id); }
 const ready=s=>STATE.get(s)==='ok';
 // a tile's rectangle in the sheet as the GPU sees it (three turns images over: v runs up from the bottom)
@@ -99,7 +114,7 @@ const envArtMissing=()=>missing;
 function envArtArrived(){ if(typeof EX==='undefined'||!EX||!EX.artMissing||!EX.active||EX.busy||!EX.area) return; const id=EX.area.id;
   if(['area-'+id,'area-'+id+'-n','effects','effects-e','mold'].some(s=>STATE.get(s)==='loading')) return;
   EX.artMissing=false; if(typeof xBuildScene==='function'){ xBuildScene(); if(typeof xUpdateVis==='function') xUpdateVis(); } }
-const api={envArtArena,envArtFxGlow,envArtMold,envArtWant,envArtWantDepth,envArtAreaFloors,envArtAreaWalls,envArtTheme,envArtOverlay,envArtFx,envArtTex,envArtBuildStart,envArtMissing,envArtArrived};
+const api={envArtHex,envArtHexFailed,envArtArena,envArtFxGlow,envArtMold,envArtWant,envArtWantDepth,envArtAreaFloors,envArtAreaWalls,envArtTheme,envArtOverlay,envArtFx,envArtTex,envArtBuildStart,envArtMissing,envArtArrived};
 Object.assign(root,api);
 envArtWant('hollows');   // where a new game starts
 })(typeof globalThis!=='undefined'?globalThis:this);

diff --git a/game/index.html b/game/index.html
@@ -640,6 +640,16 @@
       <div class="srow"><span>Mold amount<small>How much grows everywhere. 1 is normal, 0 none.</small></span><span class="srange"><input id="dbgMoldAmt" type="range" min="0" max="3" step="0.05"><b id="dbgMoldAmtV"></b></span></div>
       <div class="srow"><span>Damp spread<small>How far the thick growth reaches out from walls, corners and water. 1 is normal.</small></span><span class="srange"><input id="dbgMoldSpread" type="range" min="0.25" max="3" step="0.05"><b id="dbgMoldSpreadV"></b></span></div>
       <div class="srow"><span>Mold scale<small>How big the mold's colonies are. 1 is normal.</small></span><span class="srange"><input id="dbgMoldScale" type="range" min="0.25" max="4" step="0.05"><b id="dbgMoldScaleV"></b></span></div>
+      <h3>Arena floor</h3>
+      <div class="srow"><span>Floor roughness<small>How rough the painted tiles are: a scale on their painted roughness. 1 is as painted.</small></span><span class="srange"><input id="dbgHexRough" type="range" min="0" max="2" step="0.05"><b id="dbgHexRoughV"></b></span></div>
+      <div class="srow"><span>Roughness offset<small>Added to every tile's roughness: below 0 a polished sheen, above 0 dull stone.</small></span><span class="srange"><input id="dbgHexRoughOff" type="range" min="-0.5" max="0.5" step="0.01"><b id="dbgHexRoughOffV"></b></span></div>
+      <div class="srow"><span>Metalness<small>How metallic the painted metal flecks are (only the Deeps' silver and the Abyss's gold have any). 1 is as painted.</small></span><span class="srange"><input id="dbgHexMetal" type="range" min="0" max="1" step="0.05"><b id="dbgHexMetalV"></b></span></div>
+      <div class="srow"><span>Relief<small>The tiles' bevels, chips and cracks catching the light (their normal map). 1 is normal.</small></span><span class="srange"><input id="dbgHexNrm" type="range" min="0" max="3" step="0.05"><b id="dbgHexNrmV"></b></span></div>
+      <div class="srow"><span>Crevice shade<small>How dark the painted cracks and the rim's foot go (ambient occlusion). 1 is normal.</small></span><span class="srange"><input id="dbgHexAO" type="range" min="0" max="2" step="0.05"><b id="dbgHexAOV"></b></span></div>
+      <div class="srow"><span>Edge wear<small>How much brighter the worn rims are. 1 is normal.</small></span><span class="srange"><input id="dbgHexWear" type="range" min="0" max="3" step="0.05"><b id="dbgHexWearV"></b></span></div>
+      <div class="srow"><span>Your side glow<small>How strongly the joints on your half glow. 1 is normal.</small></span><span class="srange"><input id="dbgHexGlow" type="range" min="0" max="3" step="0.05"><b id="dbgHexGlowV"></b></span></div>
+      <div class="srow"><span>Grid lines<small>The faint outline drawn round every hex. 1 is as bright as before the painted floor.</small></span><span class="srange"><input id="dbgHexLines" type="range" min="0" max="1.5" step="0.05"><b id="dbgHexLinesV"></b></span></div>
+      <div class="srow"><span>Joint growth<small>Moss, lichen, crystals and mushrooms in the joints between the hexes.</small></span><label class="scheck"><input id="dbgHexGrowth" type="checkbox"></label></div>
       <h3>PBR</h3>
       <div class="srow"><span>PBR materials<small>On: gold, steel, crystals, ice and cut-stone floors become physically based (roughness and metalness, the area's light reflected in them). Off: as before. Rebuilds the scene; costs more to draw on a phone.</small></span><label class="scheck"><input id="dbgPbr" type="checkbox"></label></div>
       <div class="srow"><span>Reflections<small>How strongly PBR surfaces reflect the area's light. 1 is normal.</small></span><span class="srange"><input id="dbgPbrEnv" type="range" min="0" max="6" step="0.05"><b id="dbgPbrEnvV"></b></span></div>

diff --git a/game/arena.js b/game/arena.js
@@ -91,6 +91,7 @@ const AR_RELIEF=14;   // the painted stone's relief: its brightness, 0 to 1, tim
 // the hex tiles: one merged mesh, each tile a hex prism with its own window of the area's floor
 // stone on top (as in the old board) and a colour per vertex set every frame from the tile's state
 function arenaBoard(A,Ar,R){
+  if(!SQUARE&&typeof arHexFloor==='function'){ const b=arHexFloor(A,Ar,R); A.board=b; return [b.mesh,b.joint,b.glow,b.lines]; }   // the painted hex floor (arenahex.js); the square board stays as it was
   const tex=arTex(xTex(arArt(Ar,'board',()=>xSlabFloor(Ar.stone||AREAS[0].stone,(Ar.index||0)*31+5,0)),true)), cvs=tex.image;
   const n=TILES.length, VT=6*3+6*6, pos=new Float32Array(n*VT*3), nor=new Float32Array(n*VT*3), uv=new Float32Array(n*VT*2), col=new Float32Array(n*VT*3).fill(1);
   const rad=.96, lo=-SLAB; let k=0;

diff --git a/tools/build-arena-hex.py b/tools/build-arena-hex.py
@@ -7,14 +7,16 @@
 
 Per area:
   <a>-tiles.webp     colour, 1024 x 512: 4 x 2 cells of 256, tiles 1-4 (sheet A) on row 0, 5-8 (sheet B) on row 1, each
-                     a pointy-top hex of circumradius 120 centred in its cell; colour carried past the hex edge
+                     a pointy-top hex of circumradius 120 centred in its cell; colour carried past the hex edge; alpha the
+                     coverage (chipped corners clear: the material alpha-tests it)
   <a>-tiles-n.webp   tangent-space normal from the height (lossless)
-  <a>-tiles-m.webp   data: R roughness (white rough), G metalness, B ambient occlusion from the height, A coverage
+  <a>-tiles-m.webp   data, in three.js's order: R ambient occlusion (from the height), G roughness (white rough), B metalness,
+                     A coverage
   <a>-tiles-v.webp   data: R edge wear, G cracks and chips, B colour patches, A moss and staining (A is data, not opacity)
-  <a>-joint.webp, -joint-n.webp, -joint-m.webp (R roughness, G metalness, B AO): 256, seamless (a narrow dark gap: 512 was 4 MB of lossless maps for little)
+  <a>-joint.webp, -joint-n.webp, -joint-m.webp (R AO, G roughness, B metalness, as three.js reads them): 256, seamless (a narrow dark gap: 512 was 4 MB of lossless maps for little)
   <a>-growth.webp    1024 x 512 RGBA: the flat sheet's 16 cells (left half) and the upright's (right), 128 a cell
   <a>-growth-e.webp  the glow mask, same layout (the flat half black)
-  <a>-growth-m.webp  data: R roughness, G metalness
+  <a>-growth-m.webp  data: G roughness, B metalness (three.js's channels)
 
   python3 tools/build-arena-hex.py           build
   python3 tools/build-arena-hex.py --check   check what was built
@@ -121,7 +123,7 @@ def save(a, path, mode, lossless):
 def tiles(area, warn):
     A = SRC / "areas" / area
     V = SRC / "variation" / area
-    col = np.zeros((2 * CELL, 4 * CELL, 3), np.float32)
+    col = np.zeros((2 * CELL, 4 * CELL, 4), np.float32)
     nrm = np.zeros((2 * CELL, 4 * CELL, 3), np.float32)
     dat = np.zeros((2 * CELL, 4 * CELL, 4), np.float32)
     var = np.zeros((2 * CELL, 4 * CELL, 4), np.float32)
@@ -149,15 +151,16 @@ def tiles(area, warn):
             ti = si * 4 + k
             oy, ox = (ti // 4) * CELL, (ti % 4) * CELL
             cs = shrink(c, CELL)
-            col[oy:oy + CELL, ox:ox + CELL] = shrink(rgb, CELL)
+            col[oy:oy + CELL, ox:ox + CELL, :3] = shrink(rgb, CELL)
+            col[oy:oy + CELL, ox:ox + CELL, 3] = cs
             hs = shrink(h, CELL)
             nrm[oy:oy + CELL, ox:ox + CELL] = normal_from(hs, 6, False)
-            dat[oy:oy + CELL, ox:ox + CELL, 0] = shrink(rgh[sl], CELL)
-            dat[oy:oy + CELL, ox:ox + CELL, 1] = shrink(met[sl], CELL)
-            dat[oy:oy + CELL, ox:ox + CELL, 2] = ao_from(hs, 6, False)
+            dat[oy:oy + CELL, ox:ox + CELL, 0] = ao_from(hs, 6, False)
+            dat[oy:oy + CELL, ox:ox + CELL, 1] = shrink(rgh[sl], CELL)
+            dat[oy:oy + CELL, ox:ox + CELL, 2] = shrink(met[sl], CELL)
             dat[oy:oy + CELL, ox:ox + CELL, 3] = cs
             var[oy:oy + CELL, ox:ox + CELL] = shrink(vm[sl], CELL) * (cs[..., None] > .02)
-    save(col, OUT / f"{area}-tiles.webp", "RGB", False)
+    save(col, OUT / f"{area}-tiles.webp", "RGBA", False)
     save(nrm, OUT / f"{area}-tiles-n.webp", "RGB", True)
     save(dat, OUT / f"{area}-tiles-m.webp", "RGBA", True)
     save(var, OUT / f"{area}-tiles-v.webp", "RGBA", True)
@@ -178,7 +181,7 @@ def joint(area):
     m = wrap_shrink(arr(A / f"{area}--joint-metalness.png", "L"), J)
     save(alb, OUT / f"{area}-joint.webp", "RGB", False)
     save(normal_from(h, 4, True), OUT / f"{area}-joint-n.webp", "RGB", True)
-    save(np.stack([r, m, ao_from(h, 8, True)], -1), OUT / f"{area}-joint-m.webp", "RGB", True)
+    save(np.stack([ao_from(h, 8, True), r, m], -1), OUT / f"{area}-joint-m.webp", "RGB", True)
 
 
 def growth(area):
@@ -202,8 +205,9 @@ def growth(area):
         s_rgb = np.where(sa > 1e-3, s[..., :3] / np.maximum(sa, 1e-3), shrink(rgb, 512))
         out[:, half * 512:(half + 1) * 512] = np.concatenate([s_rgb, sa], -1)
         glo[:, half * 512:(half + 1) * 512] = shrink(gl, 512)
-        dat[:, half * 512:(half + 1) * 512, 0] = shrink(rg, 512)
-        dat[:, half * 512:(half + 1) * 512, 1] = shrink(mt, 512)
+        dat[:, half * 512:(half + 1) * 512, 0] = 1
+        dat[:, half * 512:(half + 1) * 512, 1] = shrink(rg, 512)
+        dat[:, half * 512:(half + 1) * 512, 2] = shrink(mt, 512)
     save(out, OUT / f"{area}-growth.webp", "RGBA", True)
     save(glo, OUT / f"{area}-growth-e.webp", "L", True)
     save(dat, OUT / f"{area}-growth-m.webp", "RGB", True)
@@ -263,7 +267,9 @@ def check():
                 bad.append(f"{a} tile {t + 1}: coverage not 255 at the centre and 0 at the cell corner")
         if (v[m[..., 3] == 0] > 0).any():
             bad.append(f"{a}: a variation mask value outside the coverage")
-        g = np.asarray(Image.open(OUT / f"{a}-tiles-m.webp").convert("RGBA"))[..., 1]
+        g = np.asarray(Image.open(OUT / f"{a}-tiles-m.webp").convert("RGBA"))[..., 2]
+        if (np.asarray(Image.open(OUT / f"{a}-tiles.webp").convert("RGBA"))[..., 3] != m[..., 3]).mean() > .01:
+            bad.append(f"{a}: the colour's alpha is not the coverage")
         if a in ("deeps", "abyss") and not (g > 0).any():
             bad.append(f"{a}: no metal flecks")
         if a == "hollows" and (g > 0).any():
